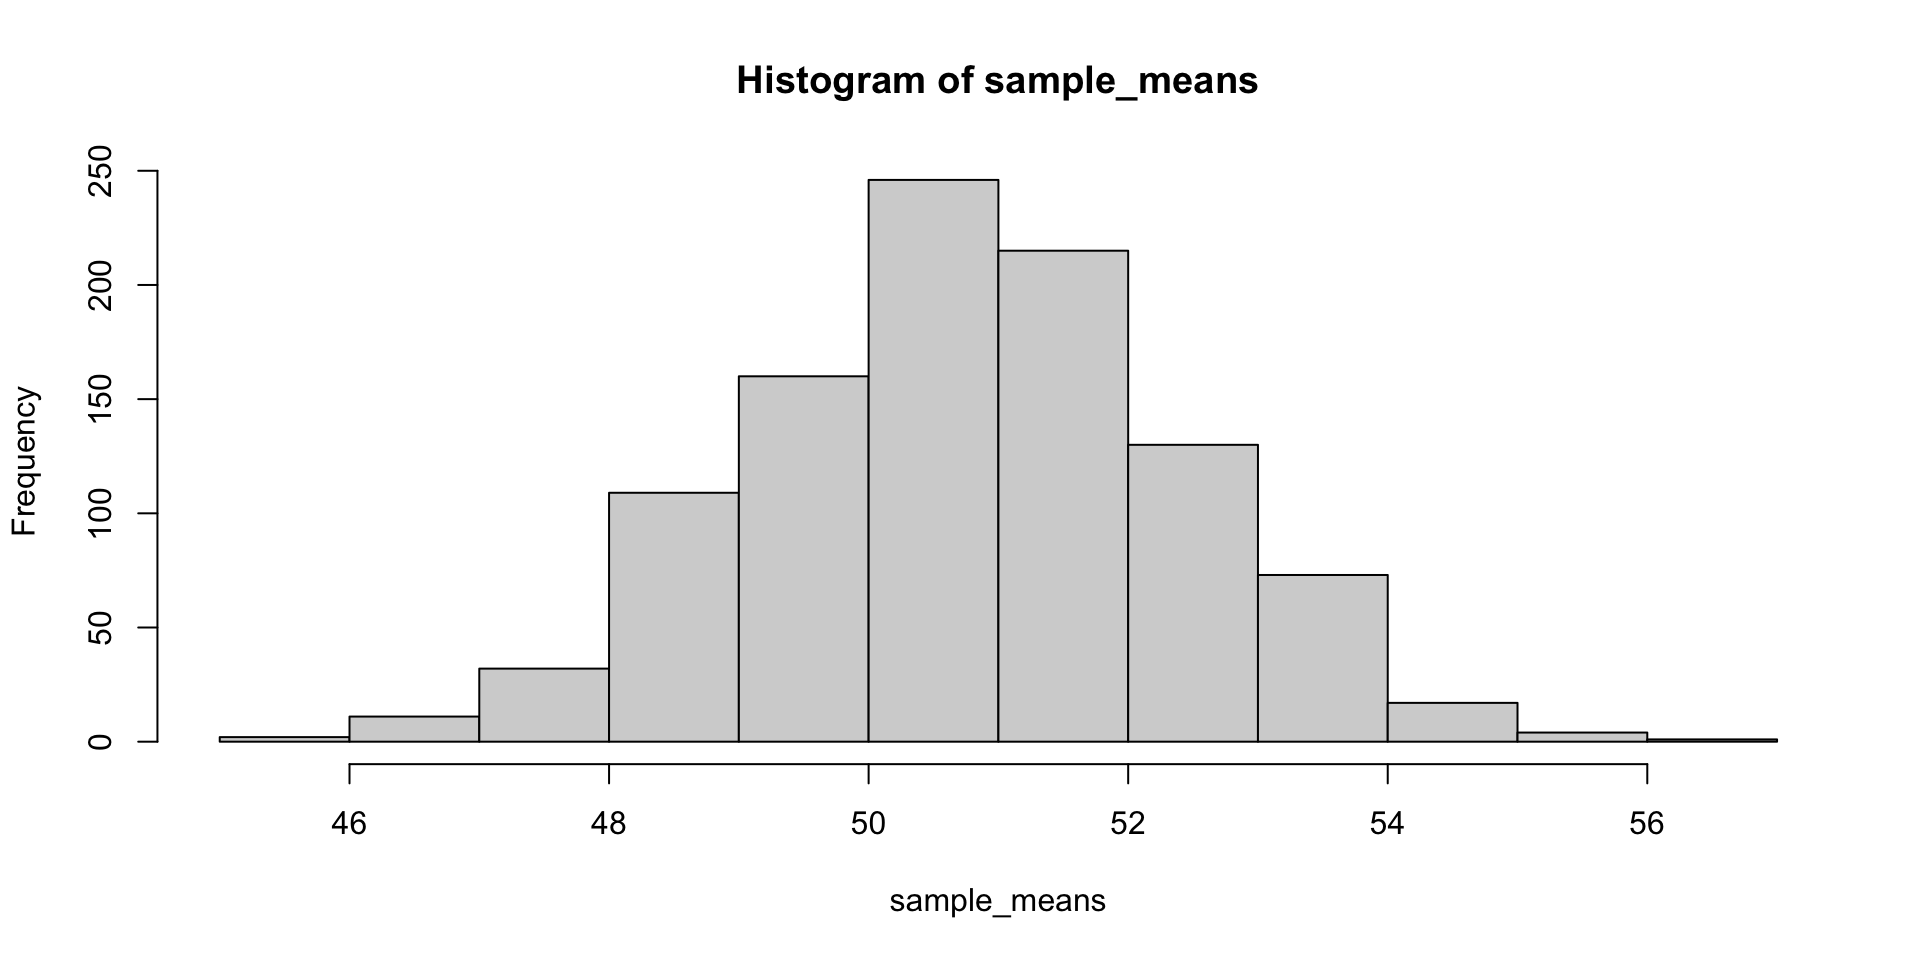
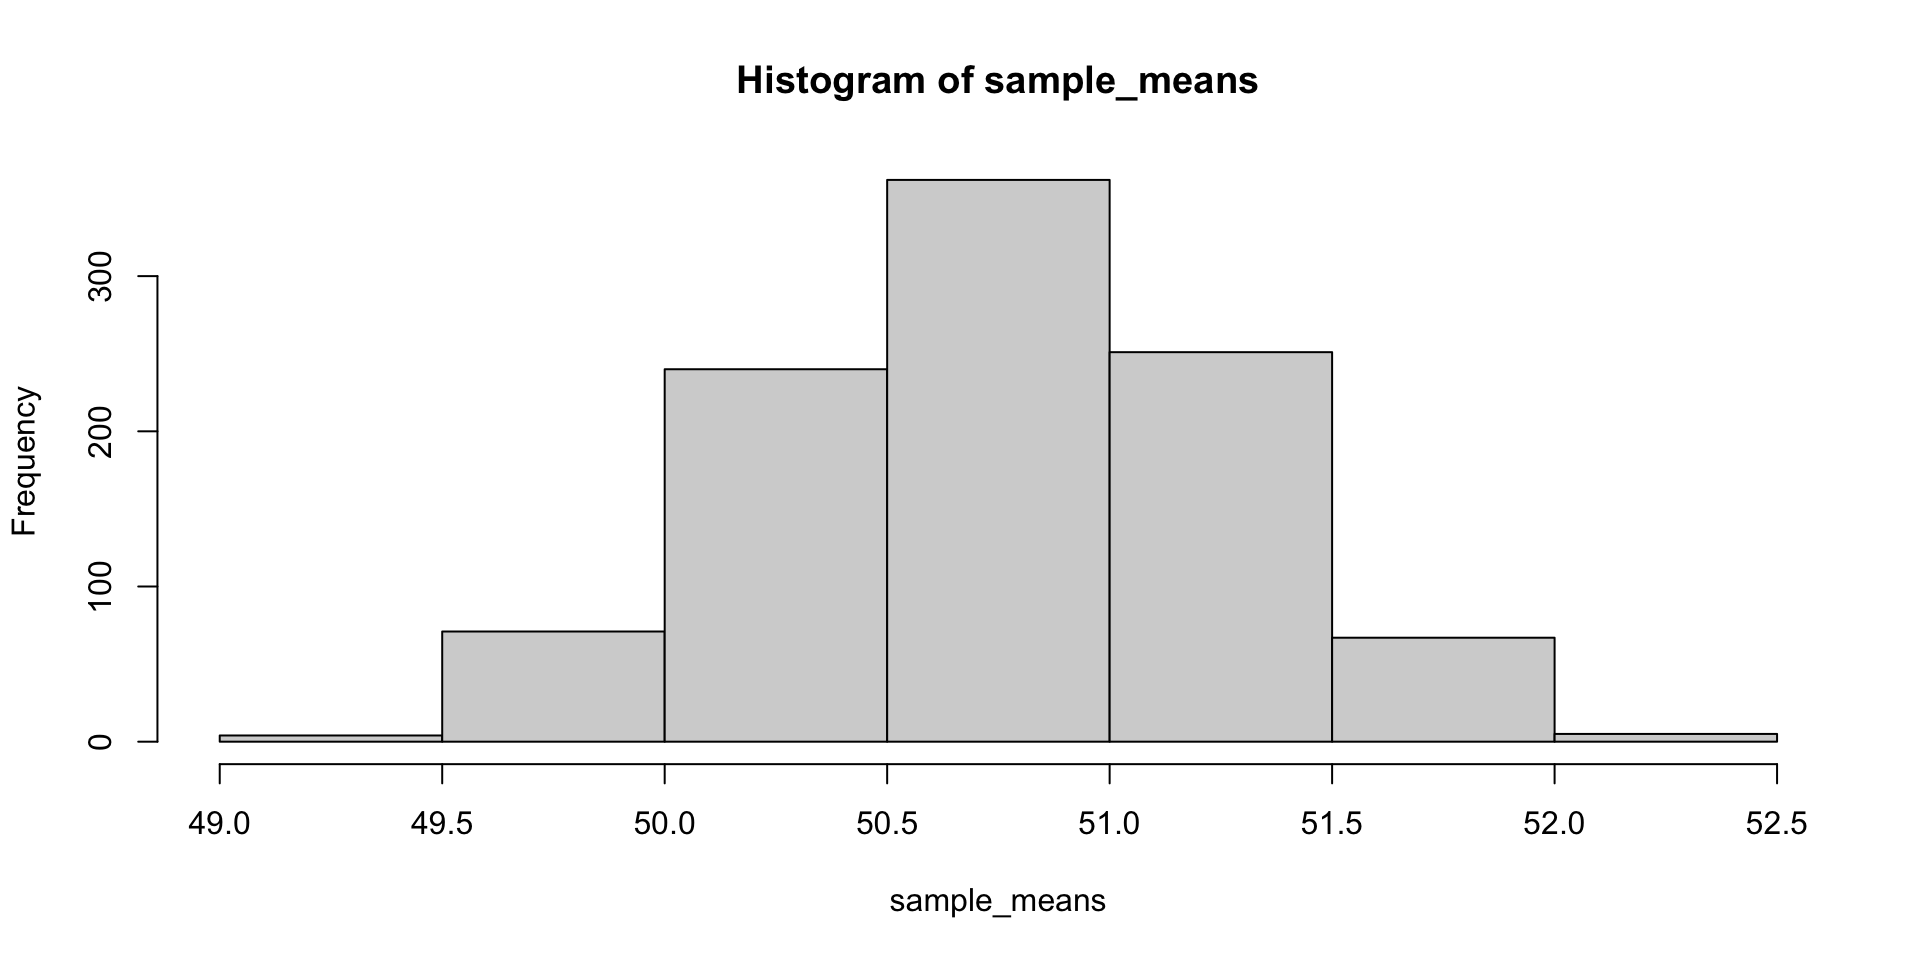
fix t-stat for two means formula in W3L2

diff --git a/W3L2_Comparing Variables/W3L2_Comparing_Variables.html b/W3L2_Comparing Variables/W3L2_Comparing_Variables.html
@@ -569,7 +569,7 @@ Dr.&nbsp;Ches Thurber
 <h2>Distribution of Sample Means</h2>
 <div class="cell">
 <div class="sourceCode cell-code" id="cb12"><pre class="sourceCode numberSource r number-lines code-with-copy"><code class="sourceCode r"><span id="cb12-1"><a href=""></a>sample_means <span class="ot">&lt;-</span> <span class="fu">replicate</span>(<span class="dv">1000</span>,</span>
-<span id="cb12-2"><a href=""></a>                          <span class="fu">mean</span>(<span class="fu">sample</span>(BES<span class="sc">$</span>age, <span class="at">size =</span> <span class="dv">100</span>, <span class="at">replace =</span> F), <span class="at">na.rm=</span>T))</span>
+<span id="cb12-2"><a href=""></a>                          <span class="fu">mean</span>(<span class="fu">sample</span>(BES<span class="sc">$</span>age, <span class="at">size =</span> <span class="dv">1000</span>, <span class="at">replace =</span> F), <span class="at">na.rm=</span>T))</span>
 <span id="cb12-3"><a href=""></a><span class="fu">hist</span>(sample_means)</span></code><button title="Copy to Clipboard" class="code-copy-button"><i class="bi"></i></button></pre></div>
 
 </div>
@@ -607,7 +607,7 @@ Dr.&nbsp;Ches Thurber
 </div>
 <div class="sourceCode cell-code" id="cb15"><pre class="sourceCode numberSource r number-lines code-with-copy"><code class="sourceCode r"><span id="cb15-1"><a href=""></a><span class="fu">mean</span>(sample_means)</span></code><button title="Copy to Clipboard" class="code-copy-button"><i class="bi"></i></button></pre></div>
 <div class="cell-output cell-output-stdout">
-<pre><code>[1] 50.77315</code></pre>
+<pre><code>[1] 50.75061</code></pre>
 </div>
 <div class="sourceCode cell-code" id="cb17"><pre class="sourceCode numberSource r number-lines code-with-copy"><code class="sourceCode r"><span id="cb17-1"><a href=""></a><span class="fu">sd</span>(BES<span class="sc">$</span>age)</span></code><button title="Copy to Clipboard" class="code-copy-button"><i class="bi"></i></button></pre></div>
 <div class="cell-output cell-output-stdout">
@@ -619,7 +619,7 @@ Dr.&nbsp;Ches Thurber
 </div>
 <div class="sourceCode cell-code" id="cb21"><pre class="sourceCode numberSource r number-lines code-with-copy"><code class="sourceCode r"><span id="cb21-1"><a href=""></a><span class="fu">sd</span>(sample_means)</span></code><button title="Copy to Clipboard" class="code-copy-button"><i class="bi"></i></button></pre></div>
 <div class="cell-output cell-output-stdout">
-<pre><code>[1] 1.671393</code></pre>
+<pre><code>[1] 0.5080795</code></pre>
 </div>
 </div>
 </section>
@@ -811,7 +811,7 @@ Dr.&nbsp;Ches Thurber
 <section id="test-statistic-for-comparing-two-means" class="slide level2">
 <h2>Test Statistic for comparing two means</h2>
 <ul>
-<li>test statistic: <span class="math display">\[ \frac{t_1 - t_2}{\sqrt{\frac{s_1^2}{n} + \frac{s_2^2}{n}}} \]</span></li>
+<li>test statistic: <span class="math display">\[ \frac{\bar{x}_1 - \bar{x}_2}{\sqrt{\frac{s_1^2}{n_1} + \frac{s_2^2}{n_2}}} \]</span></li>
 </ul>
 <div class="cell">
 <div class="sourceCode cell-code" id="cb50"><pre class="sourceCode numberSource r number-lines code-with-copy"><code class="sourceCode r"><span id="cb50-1"><a href=""></a>t.top <span class="ot">&lt;-</span> mean.stay<span class="sc">-</span>mean.leave</span>
@@ -821,6 +821,9 @@ Dr.&nbsp;Ches Thurber
 <pre><code>[1] -40.09589</code></pre>
 </div>
 </div>
+<ul>
+<li>the difference in means divided by the joint standard error (accounting for the fact that there are differences in variance and size between the samples)</li>
+</ul>
 </section>
 <section id="calculate-p-value" class="slide level2">
 <h2>Calculate P-value</h2>
